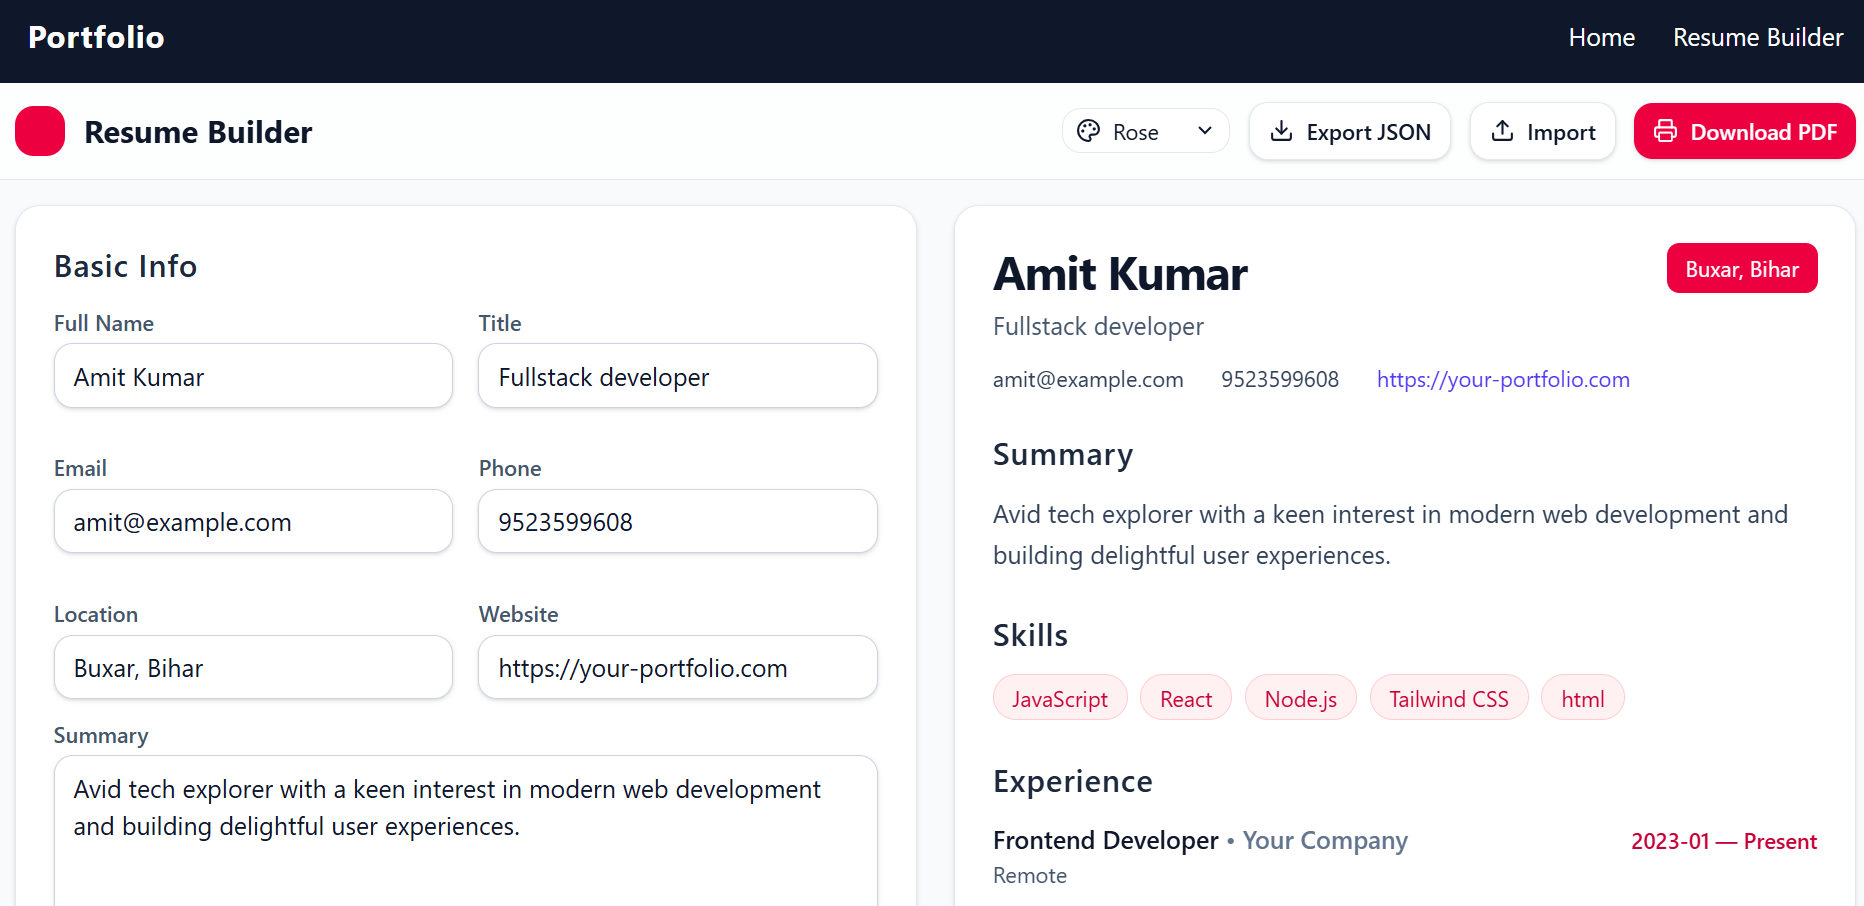
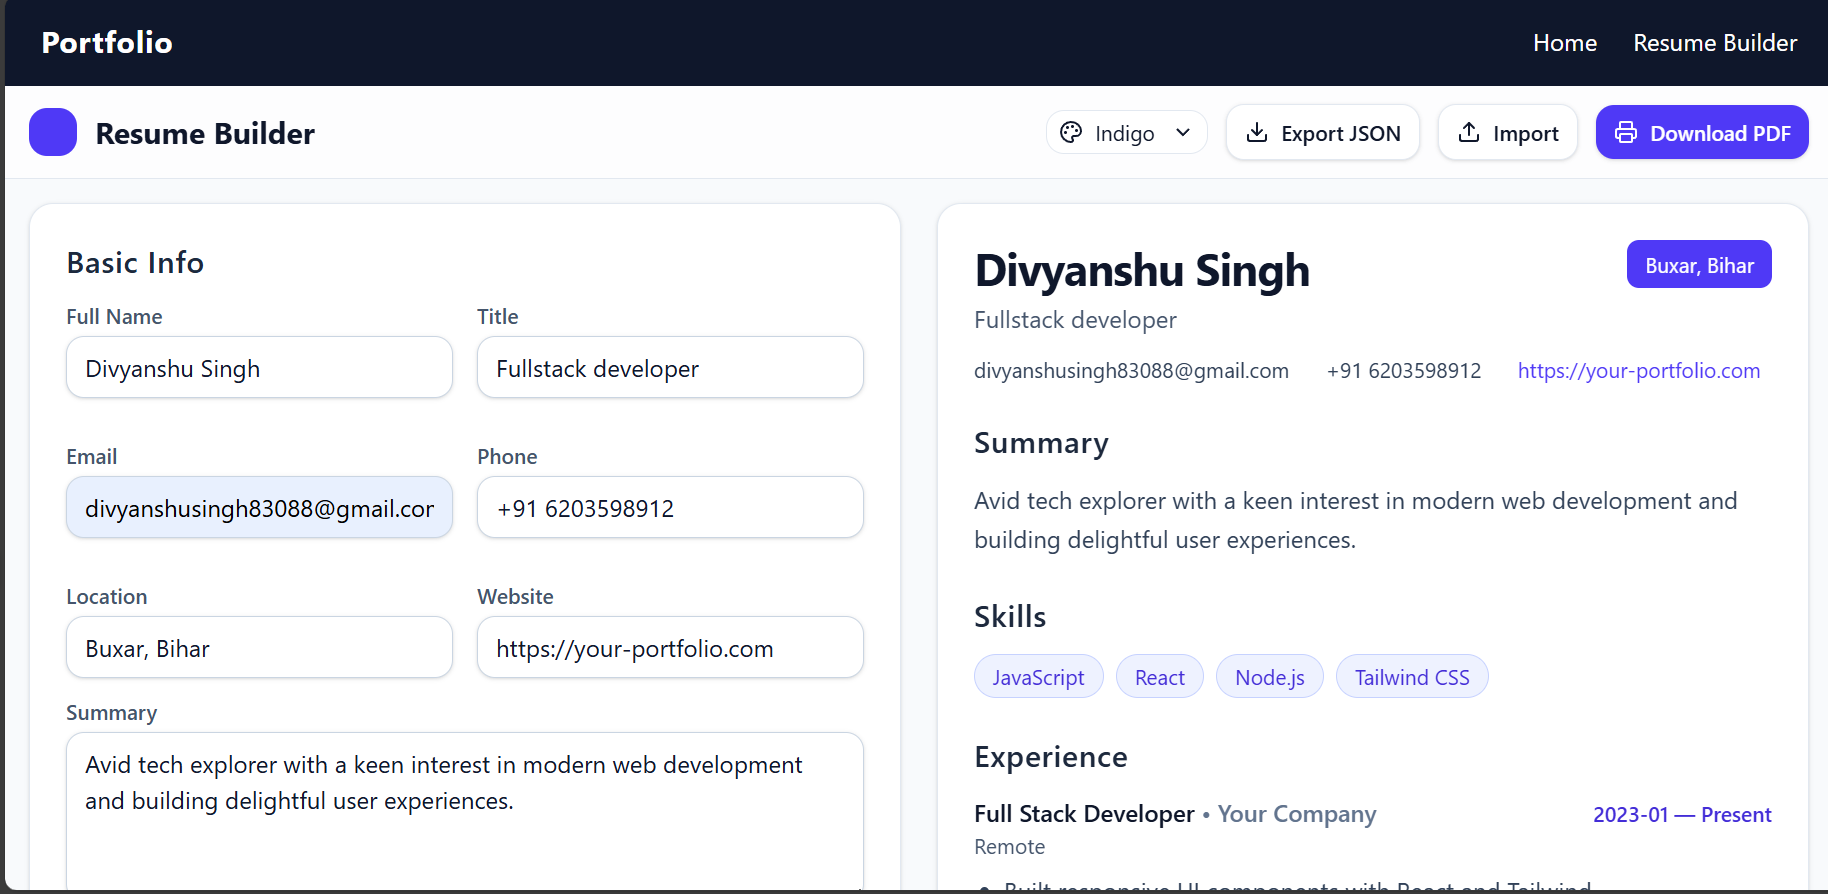
little change

diff --git a/index.html b/index.html
@@ -270,7 +270,7 @@
     <div class="portfolio_layer">
       <h4>Ayurveda AI</h4>
       <p>Integrating AI gives personalized health advice using Ayurvedic principles.</p>
-     <a href="https://github.com/Amit-kr-563/Ayurveda-AI-Chatbot"> <i class="fa-solid fa-up-right-from-square"></i></a>
+     <a href="https://github.com/divyanshu-singh20/Ayurveda-AI-chatbot"> <i class="fa-solid fa-up-right-from-square"></i></a>
     </div>
   </div>
   <div class="portfolio_box">
@@ -278,7 +278,7 @@
     <div class="portfolio_layer">
       <h4>Resume Builder</h4>
       <p>A smart Resume Builder that helps users design impactful resumes in minutes. </p>
-     <a href="https://github.com/Amit-kr-563/Resume-Builder"><i class="fa-solid fa-up-right-from-square"></i></a> 
+     <a href="https://github.com/divyanshu-singh20/Resume-Builder-app"><i class="fa-solid fa-up-right-from-square"></i></a> 
     </div>
   </div>
   <div class="portfolio_box">
@@ -286,16 +286,7 @@
     <div class="portfolio_layer">
       <h4>MoneyMate</h4>
       <p>MoneyMate helps you track your expenses and manage your budget with ease.</p>
-     <a href="https://github.com/Amit-kr-563/Expense-Tracker"> <i class="fa-solid fa-up-right-from-square"></i></a>
-    </div>
-    
-  </div>
-  <div class="portfolio_box">
-    <img src="44.png" alt="">
-    <div class="portfolio_layer">
-      <h4>Amazon Clone</h4>
-      <p>A simple Amazon Clone project focusing on UI and layout. </p>
-     <a href="https://github.com/Amit-kr-563/Amazon-clone-Frontend"><i class="fa-solid fa-up-right-from-square"></i></a> 
+     <a href="https://github.com/divyanshu-singh20/Expense-tracker"> <i class="fa-solid fa-up-right-from-square"></i></a>
     </div>
     
   </div>
